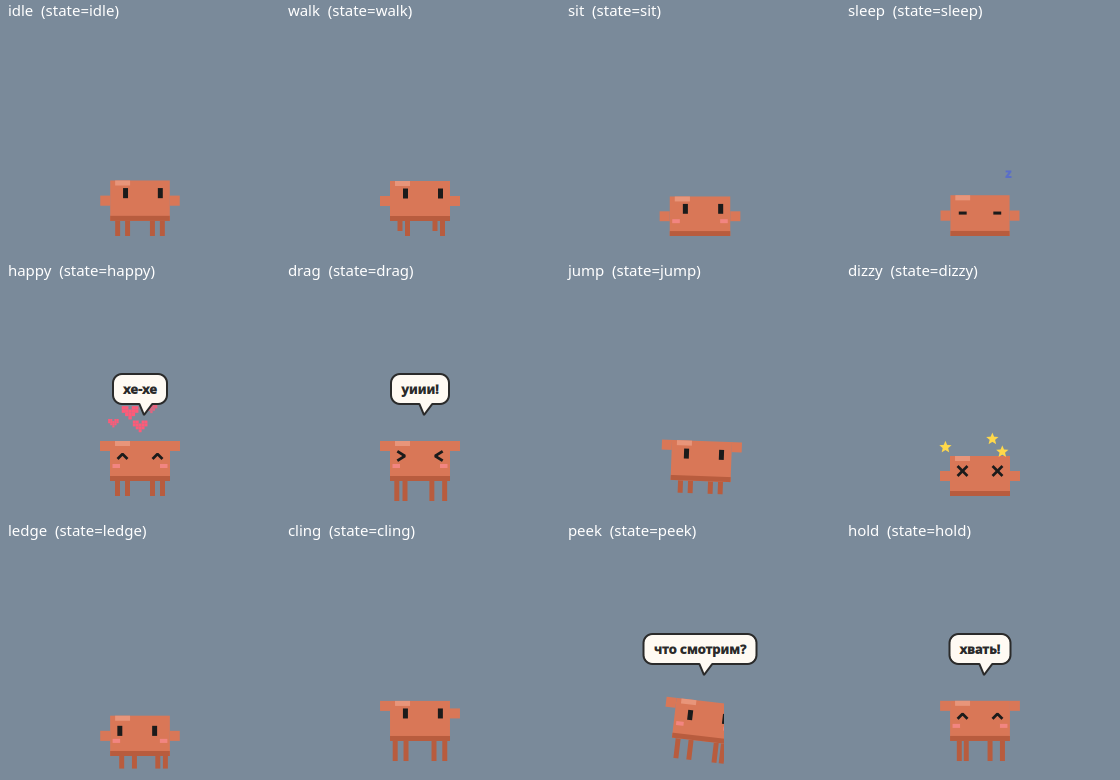
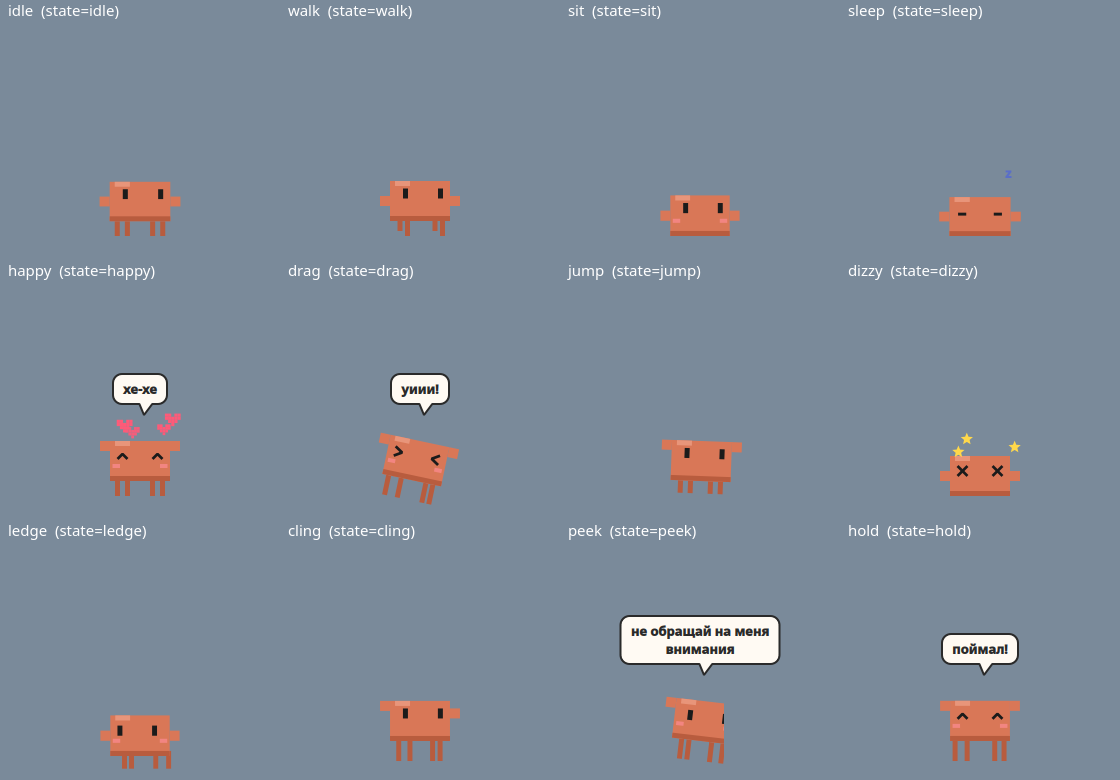
Тагилла обмякает, когда его берут мышкой
Раньше при перетаскивании показывался кадр «висит, держась рукой сверху».
Теперь — новый кадр от GPT: обмяк, руки, ноги и кувалда свисают. Кадр
ставится так, что середина корпуса ровно под курсором, и качается вокруг
точки, за которую взяли (у Клода тоже). «Держится рукой» остался только
для случая, когда он сам висит на курсоре.

diff --git a/mascot.py b/mascot.py
@@ -175,9 +175,10 @@ def tagilla_frames():
         import json
         img = QImage(os.path.join(ASSETS, "tagilla_frames.png")).convertToFormat(QImage.Format.Format_ARGB32)
         with open(os.path.join(ASSETS, "tagilla_frames.json"), encoding="utf-8") as f:
-            frames = json.load(f)["frames"]
+            data = json.load(f)
+        frames = data["frames"]
         walk = sorted((n for n in frames if n.startswith("walk")), key=lambda n: int(n[4:] or 0))
-        _tagilla = {"img": img, "frames": frames, "walk": walk}
+        _tagilla = {"img": img, "frames": frames, "walk": walk, "grab": data.get("grab", {})}
     return _tagilla
 
 
@@ -2039,8 +2040,14 @@ class Pet(QWidget):
             sq += math.sin(self.t * 3) * 0.015
         sy, sx = 1 - sq, 1 + sq * 0.7
 
-        if st in ("drag", "hold"):
-            # держим за макушку / висим на курсоре: вращаем вокруг верха
+        if st == "drag":
+            # держат мышкой — качается вокруг точки, за которую взяли
+            gx, gy = self.drag_off.x(), self.drag_off.y()
+            p.translate(gx, gy)
+            p.rotate(self.tilt)
+            p.translate(-gx, -gy)
+        elif st == "hold":
+            # сам висит на курсоре, держась рукой, — вращаем вокруг руки
             pivot = 4 - self.skin.hold_dy
             p.translate(0, pivot)
             p.rotate(self.tilt)
@@ -2163,6 +2170,8 @@ class Pet(QWidget):
 
     def tagilla_frame(self, st, hanging):
         """Какой кадр Тагиллы показать сейчас."""
+        if st == "drag" and "dangle" in tagilla_frames()["frames"]:
+            return "dangle"  # его взяли — обмяк и болтается
         if hanging or st in ("drag", "hold", "cling"):
             return "hang"
         if st == "smash" and self.smash:
@@ -2184,9 +2193,16 @@ class Pet(QWidget):
     def draw_tagilla(self, p, st, hanging):
         """Тагилла: целиком кадрами из спрайт-листа (нарисован GPT)."""
         fr = tagilla_frames()
-        x, y, w, h, ax = fr["frames"][self.tagilla_frame(st, hanging)]
+        name = self.tagilla_frame(st, hanging)
+        x, y, w, h, ax = fr["frames"][name]
         p.setRenderHint(QPainter.RenderHint.SmoothPixmapTransform, False)  # чёткие пиксели
-        p.drawImage(QPointF(-ax, -h), fr["img"], QRectF(x, y, w, h))
+        if name == "dangle" and name in fr["grab"]:
+            # середина корпуса — ровно там, где его держит курсор (в координатах экрана, с учётом поворота)
+            gx, gy = fr["grab"][name]
+            p.drawImage(QPointF(self.drag_off.x() * self.facing - gx, self.drag_off.y() - gy),
+                        fr["img"], QRectF(x, y, w, h))
+        else:
+            p.drawImage(QPointF(-ax, -h), fr["img"], QRectF(x, y, w, h))
         if st == "dizzy":
             for i in range(3):
                 a = self.t * 4 + i * 2.09

diff --git a/preview.py b/preview.py
@@ -56,6 +56,8 @@ def pose_happy():
 
 def pose_drag():
     pet.set_state("drag")
+    pet.drag_off = m.QPointF(0, -55)  # взяли мышкой за середину
+    pet.tilt = 12  # тащат вбок — тело отстаёт
     pet.say("уиии!")
 
 
@@ -117,7 +119,7 @@ for i, (name, setup) in enumerate(POSES):
     pet.tilt = pet.squash = pet.squash_v = 0.0
     pet.hammer_a = -15.0
     setup()
-    for _ in range(TICKS.get(name, 30)):
+    for _ in range(0 if name == "drag" else TICKS.get(name, 30)):
         pet.tick()
     x, y = (i % COLS) * m.W, (i // COLS) * (m.H + 20)
     painter.drawImage(x, y + 20, pet.grab().toImage())

diff --git a/CLAUDE.md b/CLAUDE.md
@@ -88,6 +88,9 @@ powershell -ExecutionPolicy Bypass -File install.ps1
   (`имя: [x, y, ширина, высота, x опоры]`; у ходьбы опора — по корпусу, чтобы тело не дёргалось). Какой кадр показать —
   `tagilla_frame()`: idle, walk1…walk8 (цикл ходьбы, темп — `skin.stride` px на кадр; walk5–8 — это walk1–4 с переставленными местами светлой и тёмной ногой: генераторы картинок упорно рисуют впереди одну и ту же ногу, и выходит «приставной шаг»), windup/strike (замах/удар), sit, sleep, hang
   (висит на руке), jump. Куда в кадре «удар» приходится кувалда — `T_STRIKE`.
+  Когда пользователь тащит его мышкой — кадр `dangle` (обмяк, болтается), поставленный так,
+  что середина корпуса (`grab` в JSON) — ровно под курсором; качается вокруг точки захвата
+  (`self.drag_off`). Кадр `hang` (держится рукой) — только когда он сам висит на курсоре.
 - `self.eye_mode(st)` говорит, какие сейчас глаза: open / closed / happy / surprised / dizzy.
 
 Позы, которые **обязательно** должны выглядеть осмысленно у любого персонажа (см. превью):
